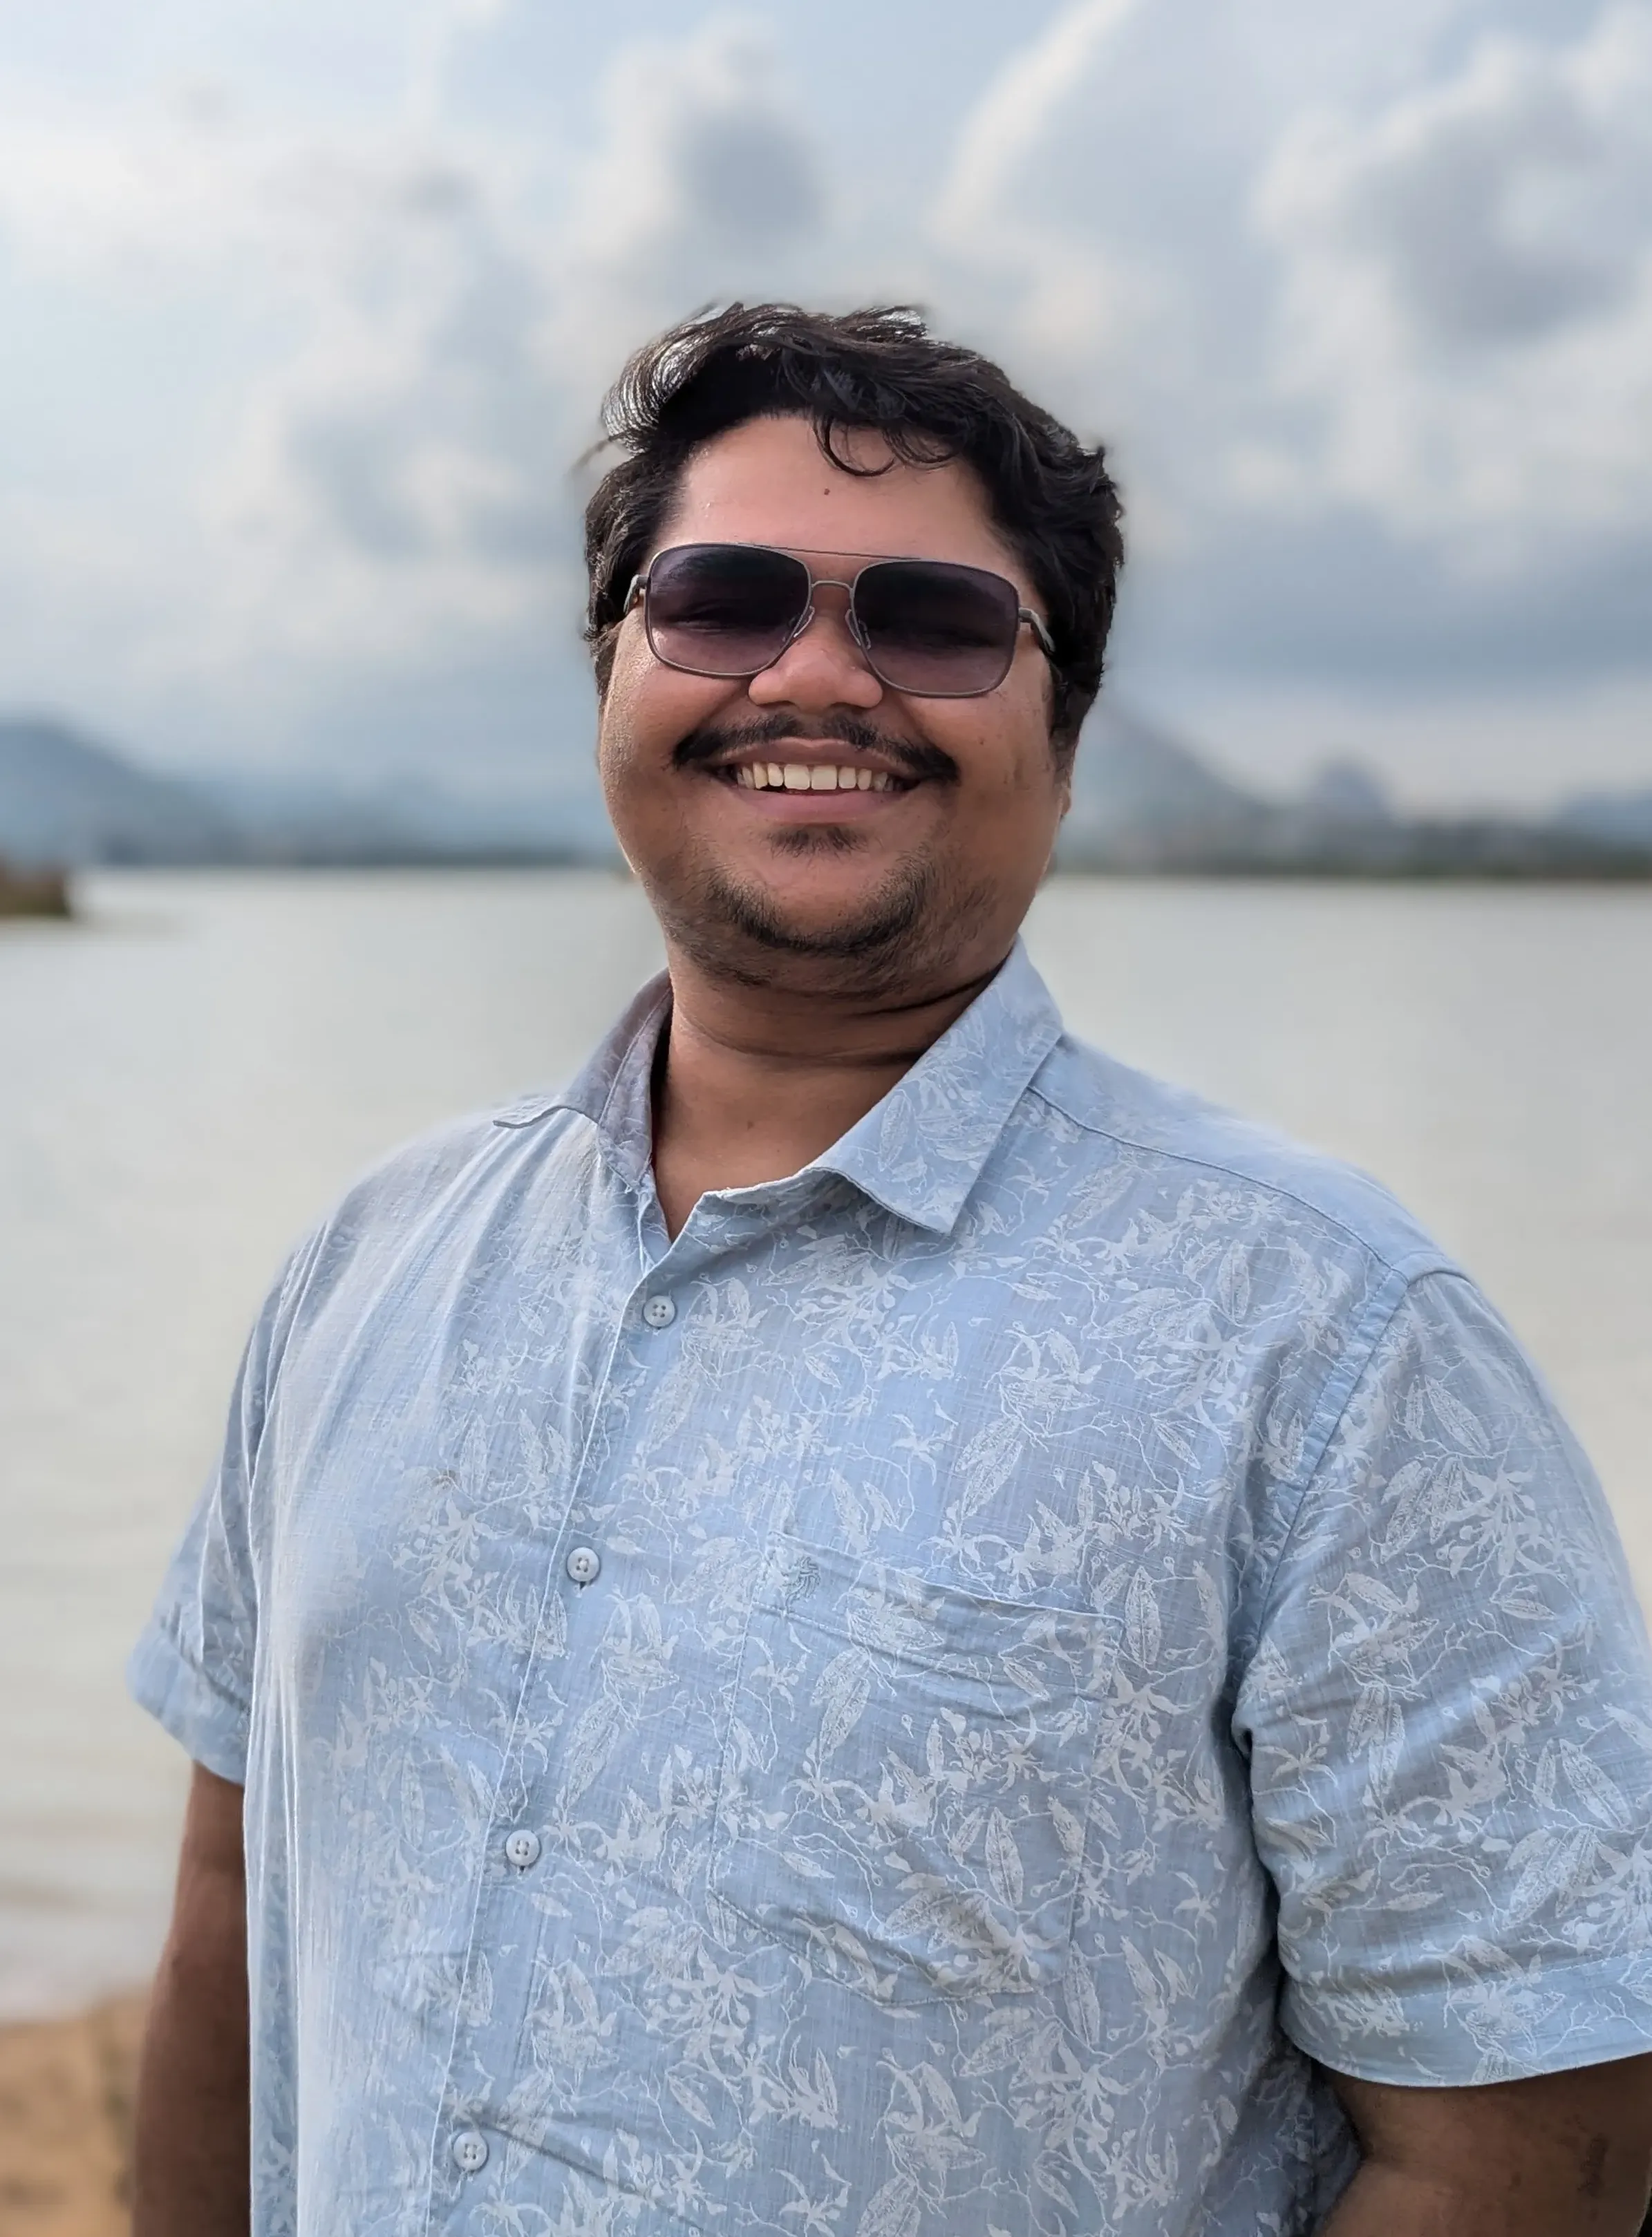
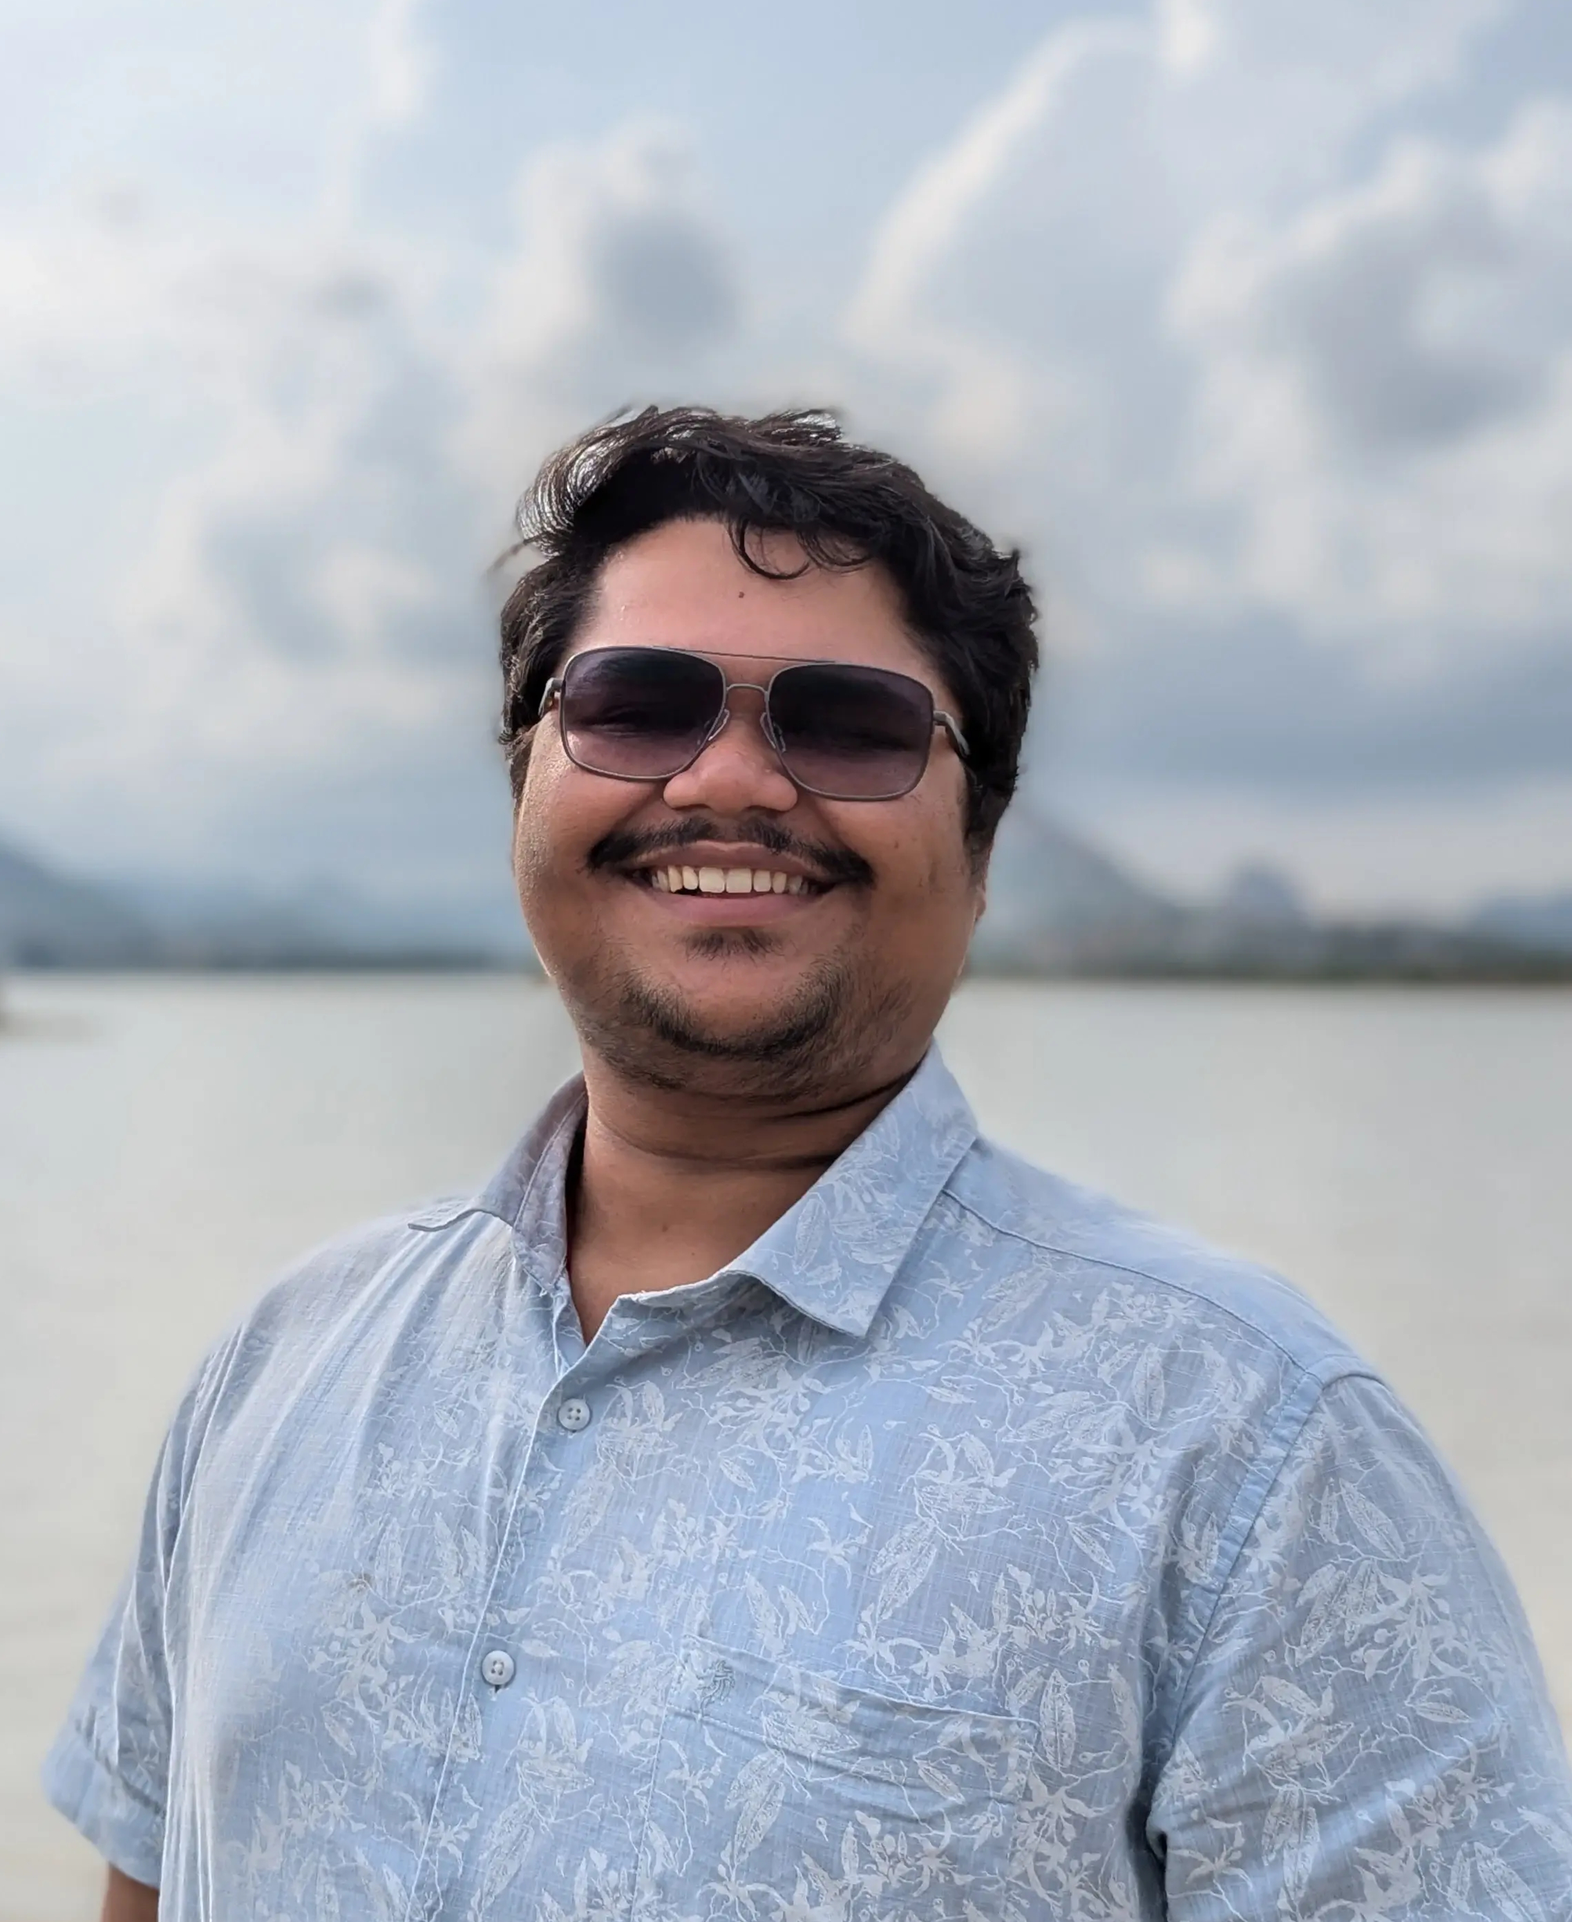
feat: update profile card layout and resume projects component

diff --git a/apps/bio/src/components/profile-card.tsx b/apps/bio/src/components/profile-card.tsx
@@ -65,8 +65,8 @@ const about = {
 
 export const ProfileCard = () => {
   return (
-    <div className=" w-full md:max-w-lg h-full md:h-[90dvh] ">
-      <div className="md:rounded-3xl flex flex-col overflow-hidden ">
+    <div className="w-full md:max-w-lg h-full flex items-center justify-center ">
+      <div className="w-full md:rounded-3xl flex flex-col overflow-hidden ">
         <div className="relative [background-image:url(/assets/ram.webp)] bg-cover bg-no-repeat bg-center md:bg-top bg-blue-900 aspect-square">
           <div className="absolute bottom-0 flex flex-col justify-end h-full w-full p-4 text-blue-50 bg-[linear-gradient(0deg,var(--color-blue-900)_0%,rgba(45,222,253,0.04)_60%)]">
             <h1

diff --git a/apps/bio/src/features/resume/resume-projects.tsx b/apps/bio/src/features/resume/resume-projects.tsx
@@ -37,7 +37,7 @@ export const ResumeProjects = ({
                 {project.startDate} - {project.endDate}
               </p>
               <p className="text-zinc-600">{project.description}</p>
-              <div className="flex gap-2 justify-end">
+              <div className="flex gap-2 justify-end print:hidden">
                 {project.links.jsr && (
                   <a href={project.links.jsr} target="_blank" rel="noreferrer">
                     <Jsr className="size-5 h-[1lh]" />
